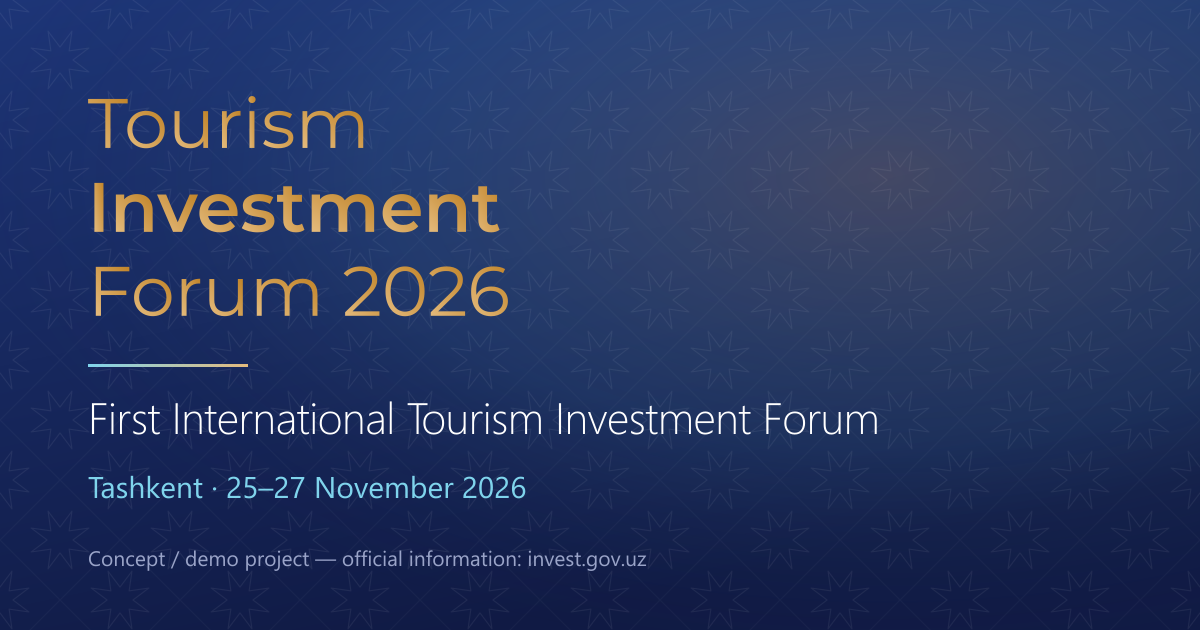
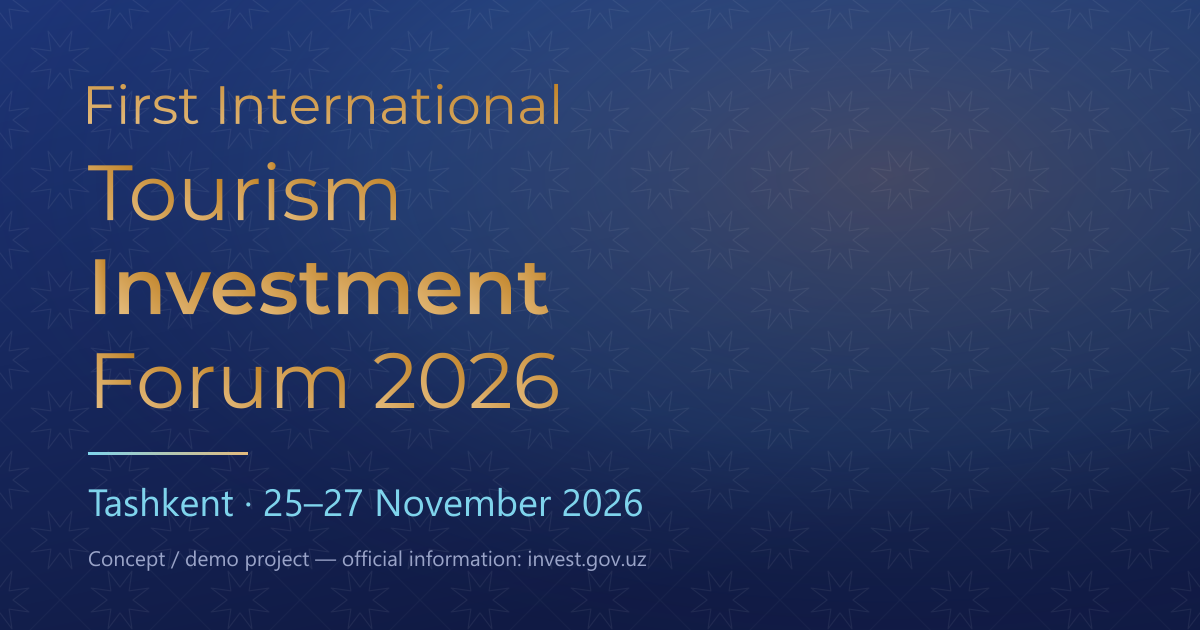
Carry the brand layer's update to the forum lockup
The shared CREDITS and tokens move with it. This site's own design is
unchanged.

Claude-Session: https://claude.ai/code/session_016J8uwMdTvHSNYSrU7NoSK4

diff --git a/CREDITS.md b/CREDITS.md
@@ -177,6 +177,36 @@ from a third-party CDN at runtime.
 | Space Grotesk | SIL Open Font License 1.1 | Site 2 (archived copy) — body |
 | IBM Plex Sans | SIL Open Font License 1.1 | Site 3 — interface |
 | IBM Plex Mono | SIL Open Font License 1.1 | Site 3 — figures |
+| Montserrat | SIL Open Font License 1.1 | Site 2 — the forum lockup's own lettering, outlined at build time |
+
+### Montserrat, and how it was identified
+
+The forum artwork the organiser supplied carries three lines of type —
+*Tourism / Investment / Forum 2026* — with every glyph already converted to
+outlines, so no file in `logo/` names the typeface it was set in. The forum's
+full name has two more words in front of it, and setting those in the site's
+body face put two typefaces inside one piece of lettering.
+
+The face was established by measurement, not by eye. Every glyph of all three
+lines was cut out of the artwork as a connected run of ink, normalised, and
+scored against forty candidate families rendered at the same cap height:
+
+| Line | Closest match | Overlap | Runner-up |
+|---|---|---|---|
+| Tourism | Montserrat Regular | 97.2% | Inter Light, 91.9% |
+| Investment | Montserrat SemiBold | 98.9% | Figtree SemiBold, 91.1% |
+| Forum 2026 | Montserrat Regular | 97.3% | Red Hat Display Regular, 87.6% |
+
+Montserrat's own metrics then confirmed it: a cap height of 700/1000 puts the
+artwork at 60.04 units, at which Montserrat sets "Forum 2026" within half a
+percent of the width it actually occupies.
+
+`brand/fonts/Montserrat-Regular.ttf` is the latin subset served by Google
+Fonts, kept here so `npm run logos` needs no network. `brand/fonts/OFL.txt` is
+the licence it travels under. The font is **not** shipped to the browser:
+`scripts/lib/forum-title.mjs` converts the one line to outlines at build time
+and it becomes part of the lockup's vector artwork, which is what the OFL's
+terms are written to allow.
 
 Note on site 3: IBM Plex places the Uzbek apostrophes `ʻ` (U+02BB) and `ʼ`
 (U+02BC) on a 0.6em advance, which splits every word containing one. A
